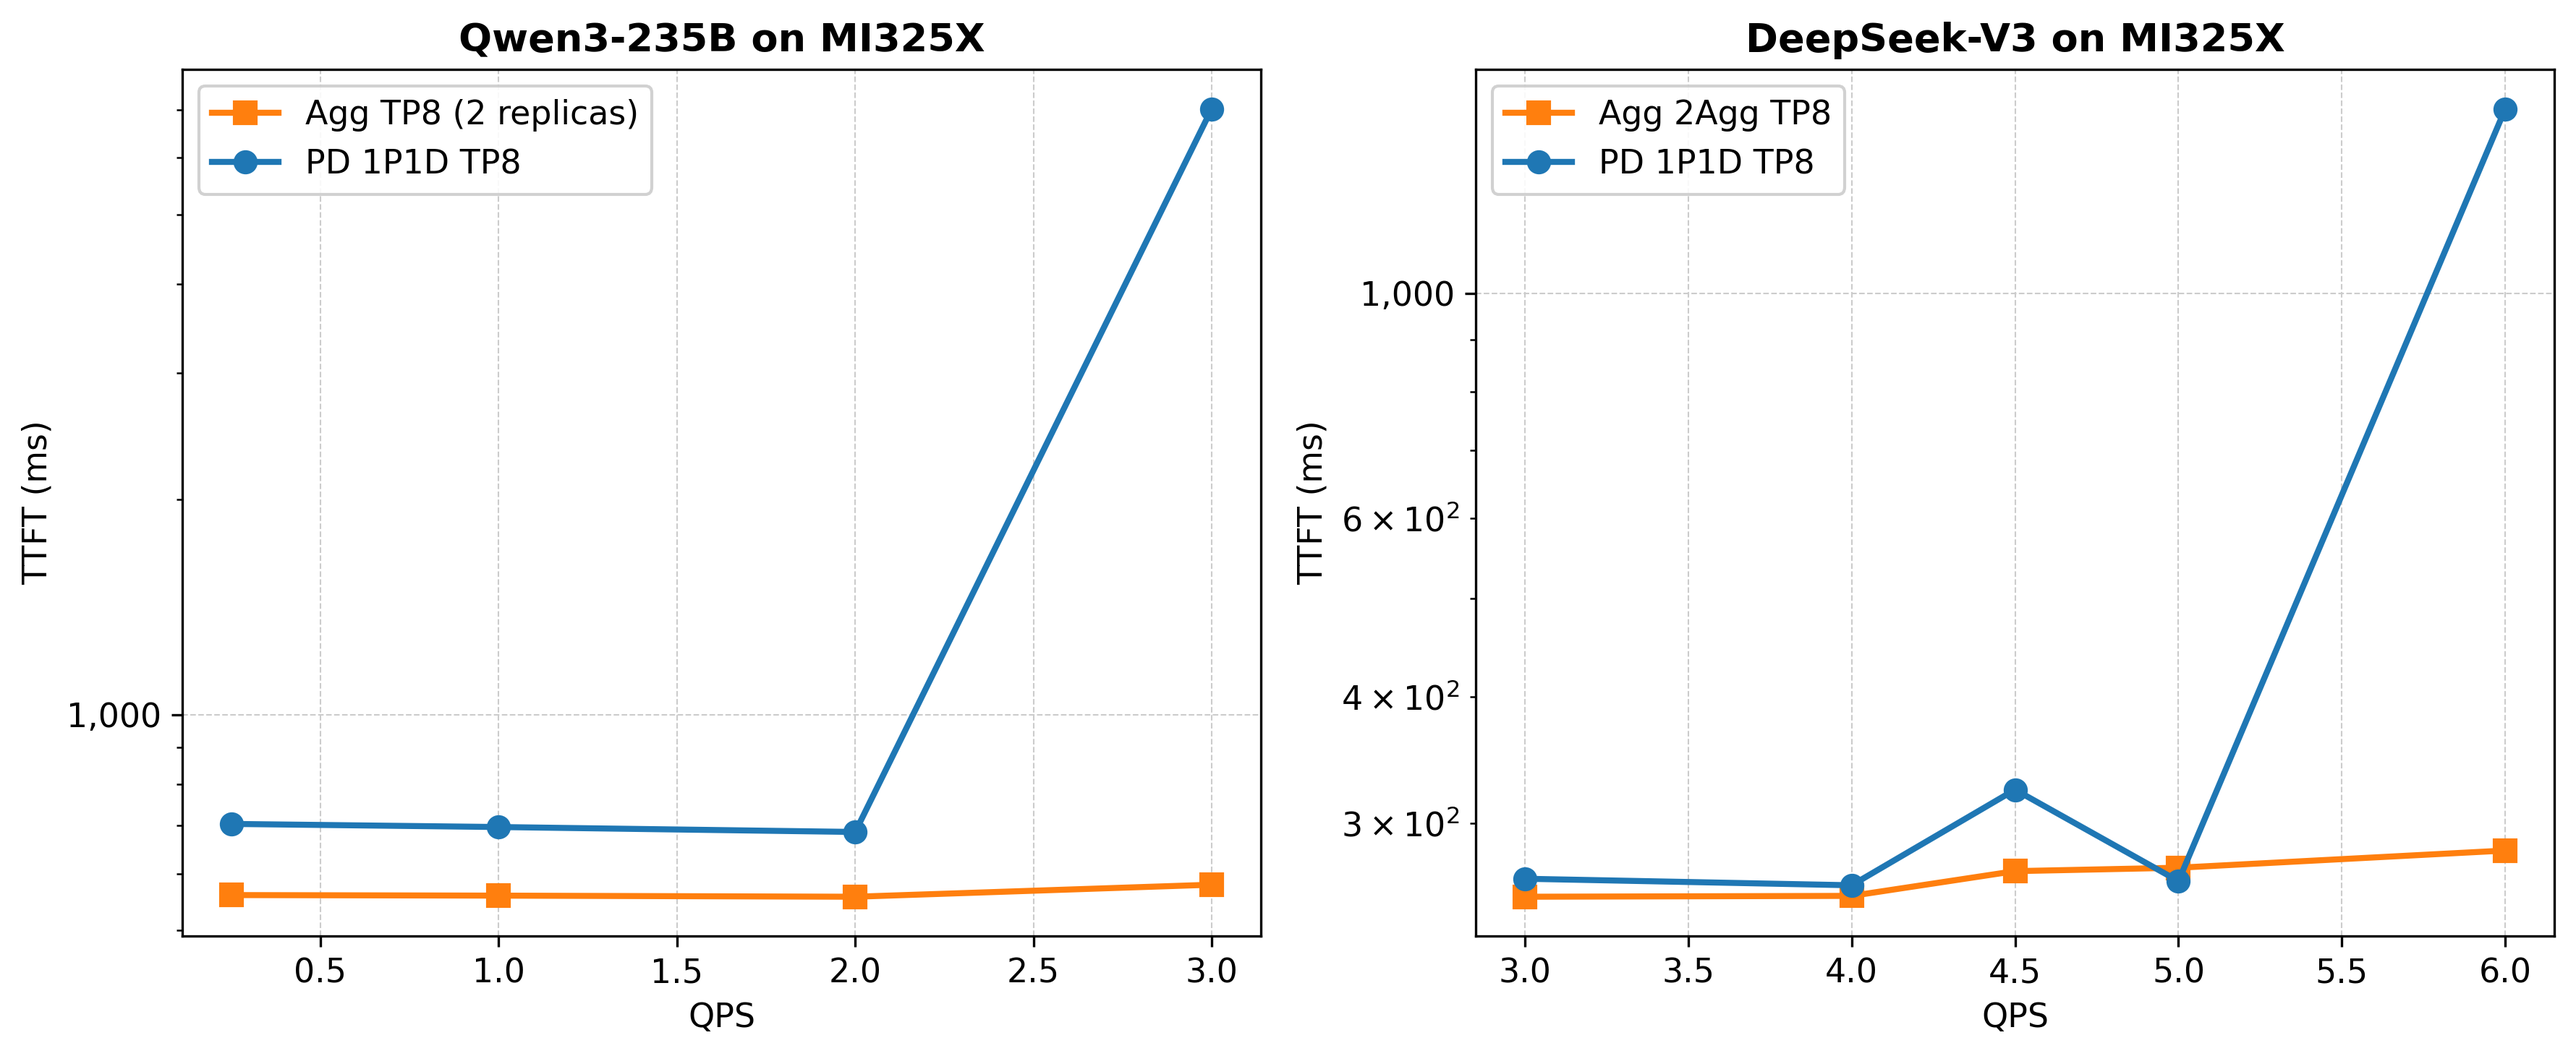
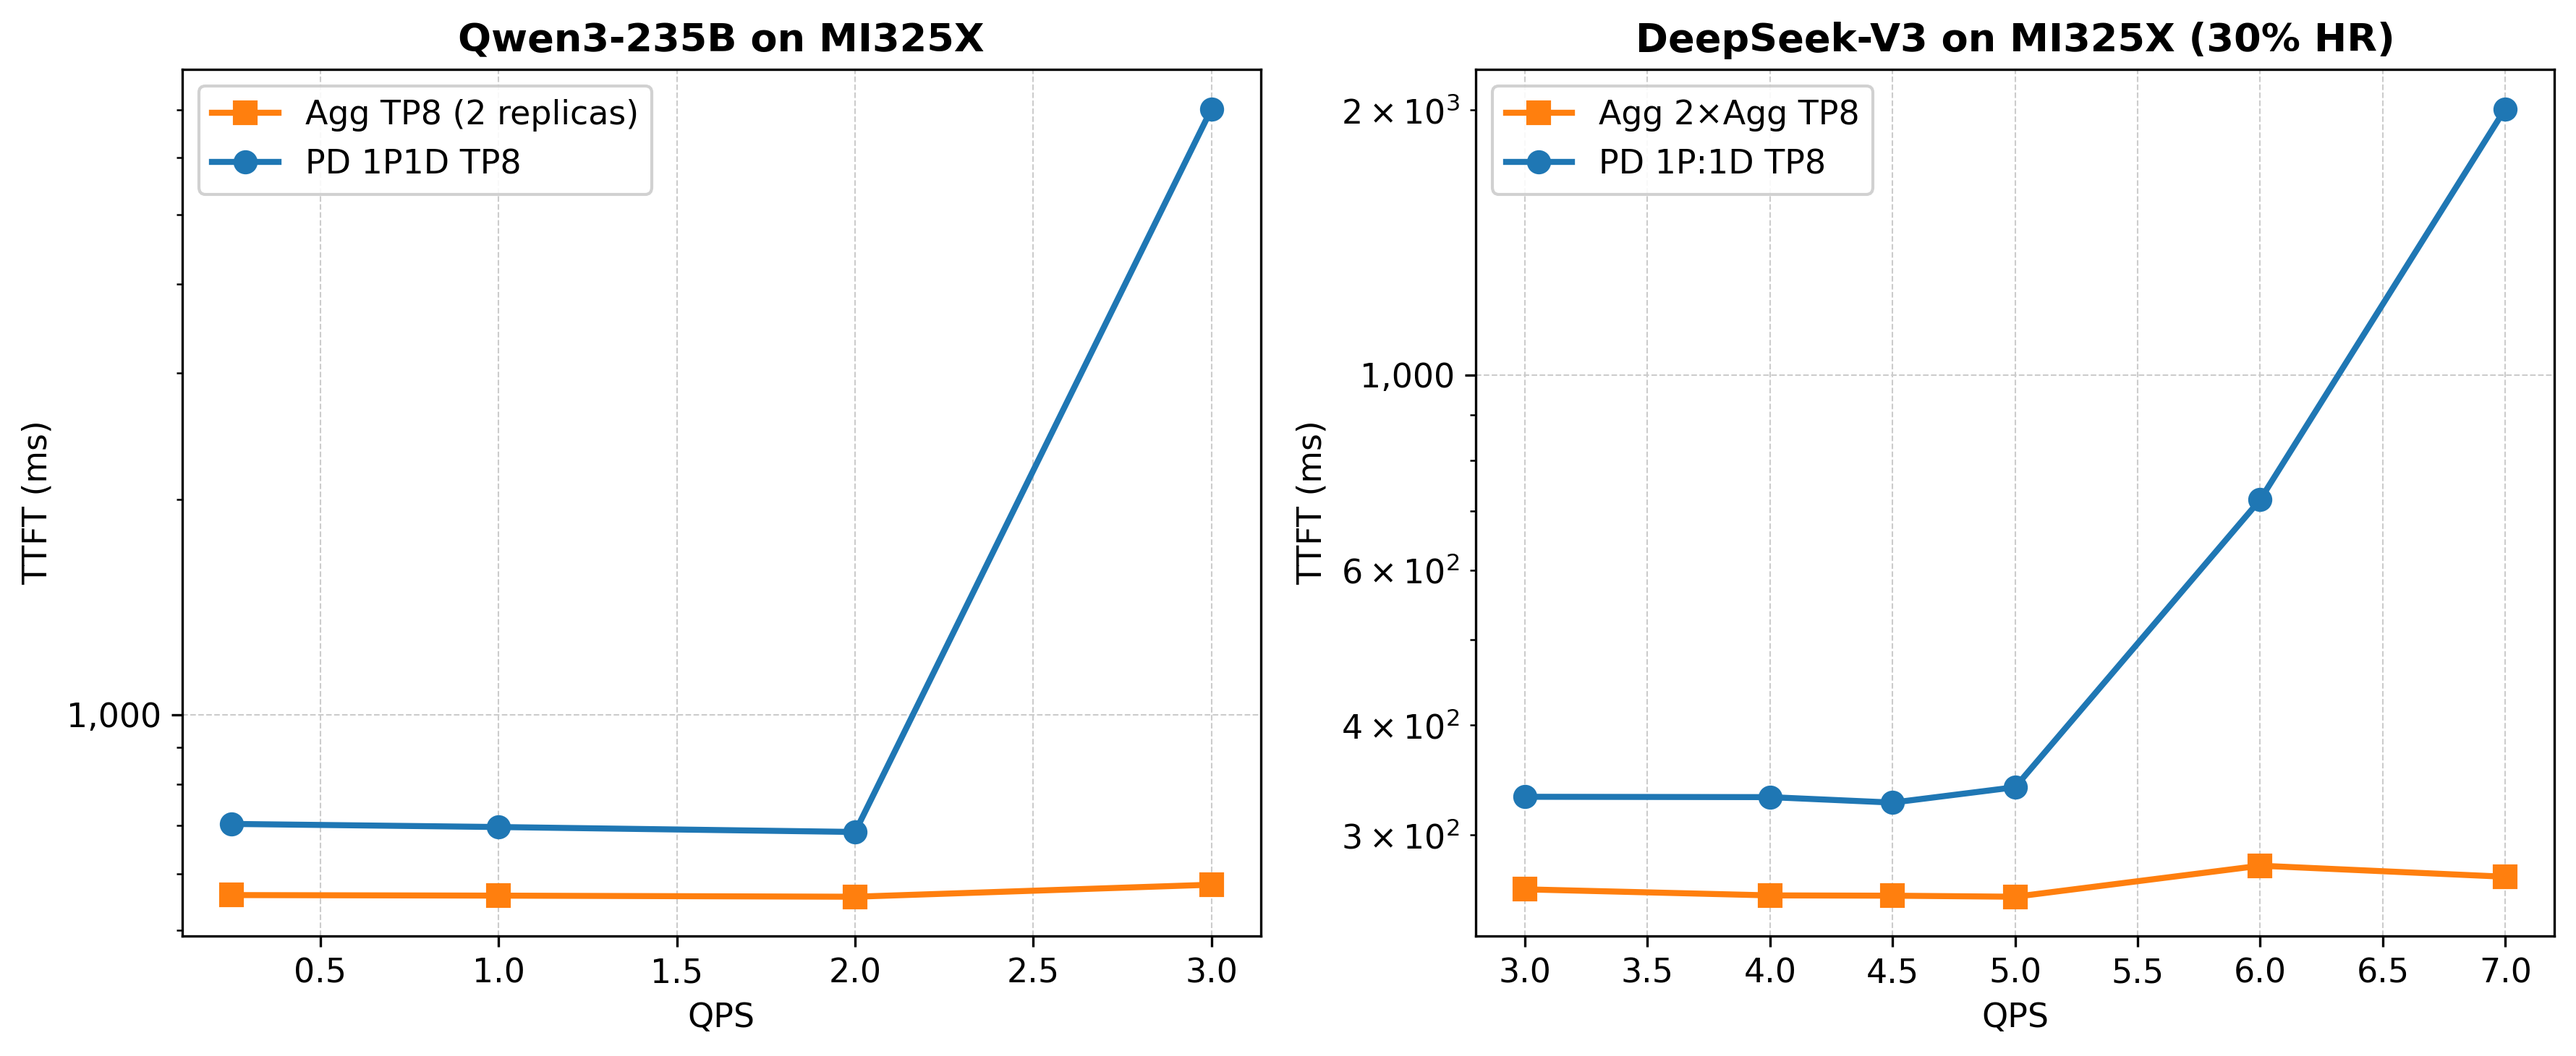
Update TTFT chart + blog with re-run DeepSeek data (fix outliers)
Old study data had outliers at QPS=4.5 (323ms spike) and QPS=5.0
(263ms dip). Re-run data is consistent: PD TTFT 327-340ms for
QPS 3-5, then climbs to 721ms at 6 and 2006ms at 7.
Added QPS=7.0 data point to both PD and Agg.

diff --git a/scripts/generate_blog_charts.py b/scripts/generate_blog_charts.py
@@ -194,21 +194,21 @@ def fig3_ttft_vs_qps():
     ax_left.set_title("Qwen3-235B on MI325X")
     ax_left.legend(loc="best")
 
-    # --- Right panel: DeepSeek-V3 ---
-    qps_agg2 = [3.0, 4.0, 4.5, 5.0, 6.0]
-    ttft_agg2 = [253.7, 254.2, 268.9, 271.0, 281.8]
-    qps_pd2 = [3.0, 4.0, 4.5, 5.0, 6.0]
-    ttft_pd2 = [264.3, 260.4, 323.6, 262.9, 1521.2]
+    # --- Right panel: DeepSeek-V3 (re-run data, current cluster) ---
+    qps_agg2 = [3.0, 4.0, 4.5, 5.0, 6.0, 7.0]
+    ttft_agg2 = [260.2, 256.1, 255.9, 255.2, 276.8, 268.9]
+    qps_pd2 = [3.0, 4.0, 4.5, 5.0, 6.0, 7.0]
+    ttft_pd2 = [331.5, 331.2, 326.5, 339.9, 721.3, 2006.2]
 
     ax_right.plot(qps_agg2, ttft_agg2, color=COLOR_AGG, marker=MARKER_AGG,
-                  linewidth=2, markersize=7, label="Agg 2Agg TP8", zorder=3)
+                  linewidth=2, markersize=7, label="Agg 2×Agg TP8", zorder=3)
     ax_right.plot(qps_pd2, ttft_pd2, color=COLOR_PD, marker=MARKER_PD,
-                  linewidth=2, markersize=7, label="PD 1P1D TP8", zorder=3)
+                  linewidth=2, markersize=7, label="PD 1P:1D TP8", zorder=3)
     ax_right.set_yscale("log")
     ax_right.yaxis.set_major_formatter(ticker.FuncFormatter(lambda v, _: f"{v:,.0f}"))
     ax_right.set_xlabel("QPS")
     ax_right.set_ylabel("TTFT (ms)")
-    ax_right.set_title("DeepSeek-V3 on MI325X")
+    ax_right.set_title("DeepSeek-V3 on MI325X (30% HR)")
     ax_right.legend(loc="best")
 
     plt.tight_layout()

diff --git a/draft/blogpost_draft.md b/draft/blogpost_draft.md
@@ -23,14 +23,14 @@ This section covers the five key insights you need to reason about PD for any wo
 
 The most common misconception about PD is that it speeds up everything. It does not. On the metric that matters most for interactive responsiveness -- time to first token -- PD is consistently slower than aggregated serving on the same GPU footprint.
 
-**Why aggregated TTFT is already good.** In vLLM's scheduler, there is no separate "prefill phase" or "decode phase." The scheduler runs all currently-active requests -- both prefill and decode -- before admitting new requests from the waiting queue. Chunked prefill is enabled by default for all decoder-only models: long prompts are split into chunks sized by `max_num_batched_tokens` (default 8192 on MI325X). Each chunk runs as one scheduler iteration. Critically, decode steps consume trivially little budget per iteration. A batch of 128 concurrent decode requests uses at most 128 tokens out of the 8192-token budget, leaving the vast majority of each iteration available for prefill tokens. TTFT is therefore dominated by the raw compute time of the prefill forward pass (attention + MoE routing), not by contention with decode.
+**Why aggregated TTFT is already good.** In vLLM's scheduler, there is no separate "prefill phase" or "decode phase." The scheduler runs all currently-active requests -- both prefill and decode -- before admitting new requests from the waiting queue. Chunked prefill is enabled by default for all decoder-only models: long prompts are split into chunks sized by `max_num_batched_tokens` (defaults to 8192). Each chunk runs as one scheduler iteration. Critically, decode steps consume trivially little budget per iteration. A batch of 128 concurrent decode requests uses at most 128 tokens out of the 8192-token budget, leaving the vast majority of each iteration available for prefill tokens. TTFT is therefore dominated by the raw compute time of the prefill forward pass (attention + MoE routing), not by contention with decode.
 
-**What PD changes.** PD adds a KV cache transfer step after prefill completes. The prefill node sends KV data over the network (RDMA/RoCE) to the decode node. This transfer has inherent overhead that depends on model architecture, KV cache size, and network conditions. Under high load, prefill nodes can also queue up, adding queuing delay on top of transfer overhead.
+**What PD changes.** PD adds a KV cache transfer step after prefill completes. The prefill node sends KV data over the network (RDMA/RoCE) to the decode node. This transfer has inherent overhead that depends on model architecture, KV cache size, and network conditions. Under high load and kv-cache pressure, prefill nodes can also queue up, adding queuing delay on top of transfer overhead.
 
 **The net effect.** On the same GPU footprint, aggregated consistently achieves equal or lower TTFT than PD.
 
 ![Aggregated scheduler timeline](../figures/insight_1_agg_scheduler.png)
-*Chunked prefill in vLLM's aggregated scheduler. A new 10k-token request arriving at iteration N is split into two prefill chunks (8064 and 2048 tokens), each co-scheduled with the 128 ongoing decode requests. Prefill nearly saturates the 8192-token budget in both iterations, delivering fast TTFT for the new request — but stalling decode latency for all existing requests at N and N+1. From N+2 onward, the batch returns to a lightweight 129-token decode rhythm (1.6% of budget).*
+*In aggregated serving, decode tokens consume only ~1.6% of the scheduler's token budget per iteration — TTFT is dominated by prefill compute, not decode contention.*
 
 ![PD KV transfer overhead](../figures/insight_1_pd_kv_transfer.png)
 *In PD serving, the KV cache transfer step between prefill and decode nodes adds overhead that inflates TTFT.*
@@ -44,8 +44,8 @@ Key data points:
 |-------|--------|---------------------|-------|
 | Qwen3-235B (TP8) | Agg | ~560ms (stable across QPS 0.25--2.0) | No transfer overhead |
 | Qwen3-235B (TP8) | 1P1D | ~686ms at QPS=0.25, ~7,021ms at QPS=3.0 | Transfer + queuing at high load |
-| DeepSeek-V3 (TP8) | 2x Agg | ~254ms at QPS=3, ~282ms at QPS=6 | Stable, distributed across 2 replicas |
-| DeepSeek-V3 (TP8) | 1P1D | ~264ms at QPS=3, ~1,521ms at QPS=6 | Single prefill saturates |
+| DeepSeek-V3 (TP8) | 2x Agg | ~260ms at QPS=3, ~277ms at QPS=6 | Stable, distributed across 2 replicas |
+| DeepSeek-V3 (TP8) | 1P1D | ~332ms at QPS=3, ~721ms at QPS=6 | Single prefill saturates |
 
 Could you solve the TTFT gap by adding more prefill GPUs? Generally, no. TTFT improves sub-linearly with additional prefill capacity, so the added GPU cost rarely justifies the marginal TTFT improvement compared to what aggregated delivers natively.
 
@@ -370,6 +370,23 @@ This is currently implemented via `@serve.multiplexed` in our custom app code (`
 
 ![PD architecture diagram](../figures/fig_8_pd_architecture.png)
 *Figure 8: Ray Serve PD topology — Ingress routes to Decode nodes, which forward to Prefill nodes. KV cache transferred via RIXL over RDMA.*
+
+### Coordinated Autoscaling
+
+The config also includes a coordinated autoscaling policy (`CoordinatedPDPolicy`) that scales prefill and decode replicas together based on the configured ratio:
+
+```yaml
+autoscaling_policy:
+  policy_function: pd_app:CoordinatedPDPolicy
+  policy_kwargs:
+    ingress_ratio: 4
+    prefill_ratio: 1
+    decode_ratio: 1
+    target_qps_per_prefill: 10.0
+    target_qps_per_decode: 10.0
+```
+
+This ensures the P:D ratio stays fixed as the system scales up or down with traffic, avoiding the wrong-ratio trap described in Insight 4.
 
 ---
 
